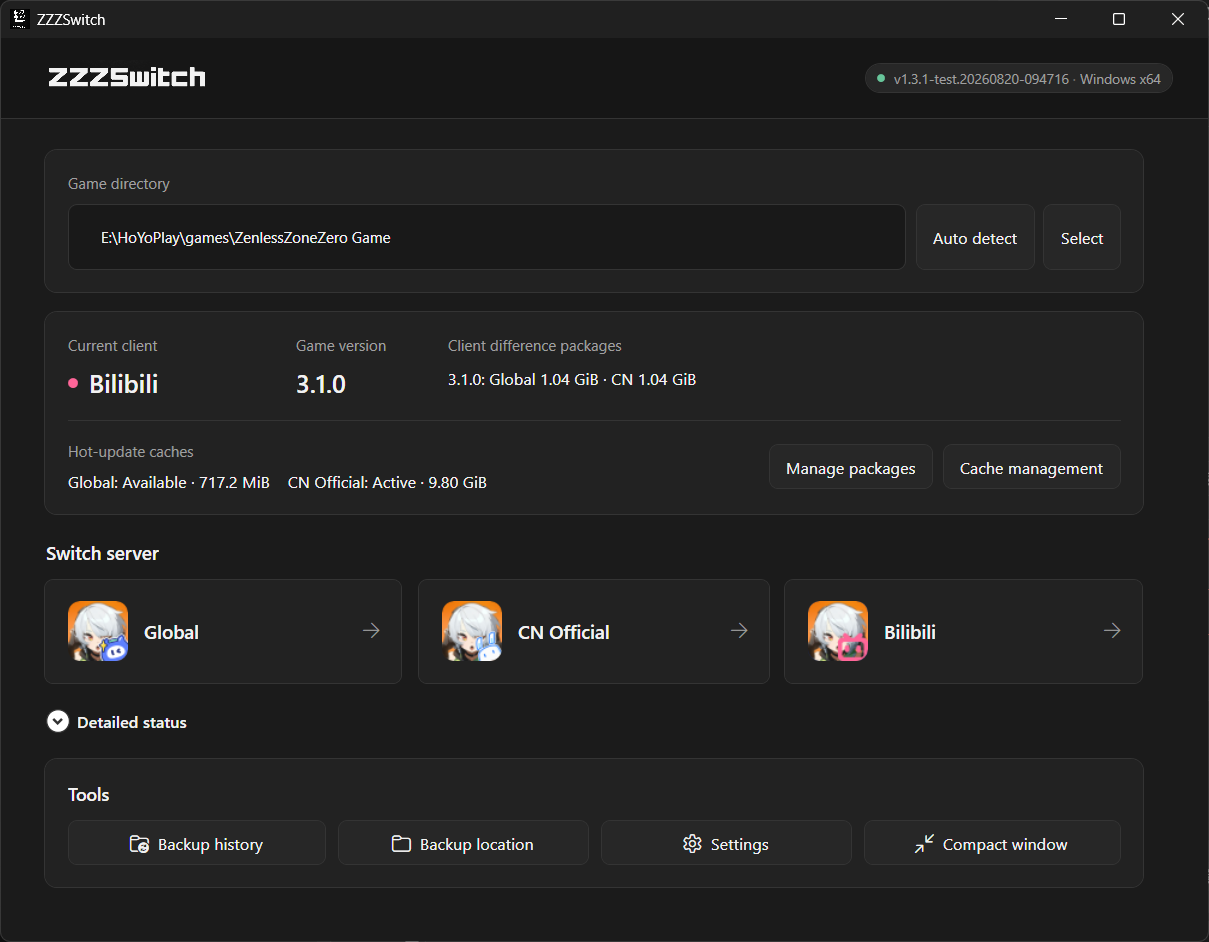
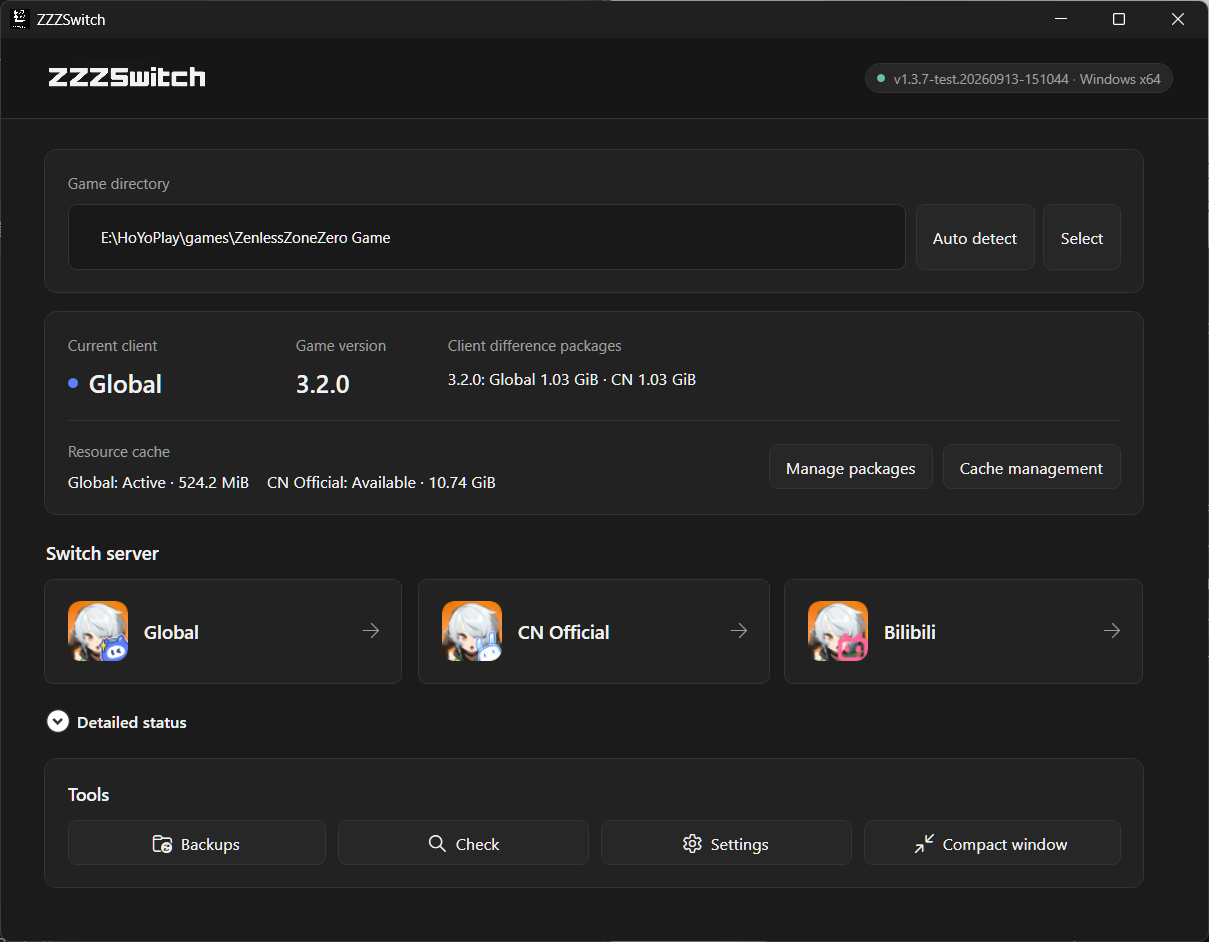
Add English landing page and refresh app screenshot

diff --git a/docs/index.html b/docs/index.html
@@ -43,7 +43,8 @@
     <nav class="nav wrap" aria-label="主导航">
       <a class="brand" href="#top" aria-label="ZZZSwitch 首页"><span class="brand-mark" aria-hidden="true">Z</span>ZZZSwitch</a>
       <div class="nav-links">
-        <a class="nav-home" href="#top">首页</a><a href="#features">软件功能</a><a href="#usage">使用说明</a><a href="https://github.com/lz007001cn/ZZZSwitch">GitHub ↗</a>
+        <a class="nav-home" href="#top" data-zh="首页" data-en="Home">首页</a><a href="#features" data-zh="软件功能" data-en="Features">软件功能</a><a href="#usage" data-zh="使用说明" data-en="Guide">使用说明</a><a href="https://github.com/lz007001cn/ZZZSwitch">GitHub ↗</a>
+        <button class="lang-toggle" type="button" aria-label="Switch to English">EN</button>
         <a class="nav-download" href="https://github.com/lz007001cn/ZZZSwitch/releases/latest">下载最新版 <span aria-hidden="true">↓</span></a>
       </div>
     </nav>
@@ -55,12 +56,12 @@
         <div class="hero-content">
           <p class="eyebrow">Windows PC · 社区工具</p>
           <h1><span>ZZZSwitch</span><span class="hero-subtitle">绝区零三服切换器</span></h1>
-          <p class="hero-copy">ZZZSwitch 是 Windows 版《绝区零》的服务器切换工具，支持国服官服、国际服和 B服。程序自动获取当前版本所需的差异文件，用户无需手动查找或制作差异包。</p>
+          <p class="hero-copy" data-zh="ZZZSwitch 是 Windows 版《绝区零》的服务器切换工具，支持国服官服、国际服和 B服。程序自动获取当前版本所需的差异文件，用户无需手动查找或制作差异包。" data-en="ZZZSwitch is a Windows tool for switching Zenless Zone Zero between Global, CN Official and Bilibili. It fetches the files for your installed version automatically, so you do not need to find or build a difference package by hand.">ZZZSwitch 是 Windows 版《绝区零》的服务器切换工具，支持国服官服、国际服和 B服。程序自动获取当前版本所需的差异文件，用户无需手动查找或制作差异包。</p>
           <div class="actions">
             <a class="button button-primary" href="https://github.com/lz007001cn/ZZZSwitch/releases/latest">下载最新版 <span class="arrow" aria-hidden="true">↓</span></a>
             <a class="button button-secondary" href="https://github.com/lz007001cn/ZZZSwitch">查看源代码 <span class="arrow" aria-hidden="true">↗</span></a>
           </div>
-          <div class="hero-facts" aria-label="软件信息"><span>Windows x64</span><span>自动获取差异文件</span><span>内置 B服组件</span></div>
+          <div class="hero-facts" aria-label="软件信息"><span data-zh="Windows x64" data-en="Windows x64">Windows x64</span><span data-zh="自动获取差异文件" data-en="Automatic file differences">自动获取差异文件</span><span data-zh="内置 B服组件" data-en="Bilibili component included">内置 B服组件</span></div>
         </div>
         <figure class="visual">
           <div class="visual-top" aria-hidden="true"><span>软件界面</span><span class="visual-status">完整模式</span></div>
@@ -82,40 +83,62 @@
     </section>
     <section class="section wrap" id="features">
       <p class="section-tag">01</p>
-      <div class="section-heading"><h2>软件功能</h2><p>从下载到切换自动完成关键准备，不需要手动寻找差异包。</p></div>
+      <div class="section-heading"><h2 data-zh="软件功能" data-en="Features">软件功能</h2><p data-zh="从下载到切换自动完成关键准备，不需要手动寻找差异包。" data-en="The app prepares the files, cache and backup needed for a switch. No manual difference package hunting is required.">从下载到切换自动完成关键准备，不需要手动寻找差异包。</p></div>
       <div class="feature-grid">
-        <article class="feature"><span class="feature-symbol" aria-hidden="true">⌁</span><h3>无需手动获取差异包</h3><p>程序按当前游戏版本读取官方 Sophon Manifest，自动计算并获取目标服务器需要的文件。</p></article>
-        <article class="feature"><span class="feature-symbol" aria-hidden="true">⇄</span><h3>只下载缺少的文件</h3><p>优先复用本地已校验文件，避免重复下载；反向切换所需差异和各服热更新缓存也会自动保存。</p></article>
-        <article class="feature"><span class="feature-symbol" aria-hidden="true">↶</span><h3>备份与恢复</h3><p>替换前建立备份，结合文件校验与事务记录，在操作意外中断后提供恢复依据。</p></article>
+        <article class="feature"><span class="feature-symbol" aria-hidden="true">⌁</span><h3 data-zh="无需手动获取差异包" data-en="No manual package work">无需手动获取差异包</h3><p data-zh="程序按当前游戏版本读取官方 Sophon Manifest，自动计算并获取目标服务器需要的文件。" data-en="ZZZSwitch reads the official Sophon Manifest for your game version, then calculates and fetches the target files automatically.">程序按当前游戏版本读取官方 Sophon Manifest，自动计算并获取目标服务器需要的文件。</p></article>
+        <article class="feature"><span class="feature-symbol" aria-hidden="true">⇄</span><h3 data-zh="只下载缺少的文件" data-en="Download only what is missing">只下载缺少的文件</h3><p data-zh="优先复用本地已校验文件，避免重复下载；反向切换所需差异和各服热更新缓存也会自动保存。" data-en="Verified local files are reused first. Reverse-switch files and each server's resource cache are saved automatically.">优先复用本地已校验文件，避免重复下载；反向切换所需差异和各服热更新缓存也会自动保存。</p></article>
+        <article class="feature"><span class="feature-symbol" aria-hidden="true">↶</span><h3 data-zh="备份与恢复" data-en="Backup and recovery">备份与恢复</h3><p data-zh="替换前建立备份，结合文件校验与事务记录，在操作意外中断后提供恢复依据。" data-en="Backups, file checks and transaction records provide a recovery path if an operation is interrupted.">替换前建立备份，结合文件校验与事务记录，在操作意外中断后提供恢复依据。</p></article>
       </div>
     </section>
     <section class="section usage-section" id="usage">
       <div class="wrap">
         <p class="section-tag">02</p>
-        <div class="section-heading"><h2>使用步骤</h2><p>首次切换联网获取差异文件。<br>之后可继续复用已校验的文件与缓存。</p></div>
+        <div class="section-heading"><h2 data-zh="使用步骤" data-en="How to use">使用步骤</h2><p data-zh="首次切换联网获取差异文件。<br>之后可继续复用已校验的文件与缓存。" data-en="Connect to the internet for the first switch.<br>Verified files and caches can be reused afterwards.">首次切换联网获取差异文件。<br>之后可继续复用已校验的文件与缓存。</p></div>
         <div class="workflow">
-          <article class="step"><b>01</b><h3>下载并解压</h3><p>从 GitHub Releases 下载最新版，解压后运行 ZZZSwitch.exe。</p></article>
-          <article class="step"><b>02</b><h3>选择游戏目录</h3><p>自动检测，或手动选择包含 ZenlessZoneZero.exe 的安装目录。</p></article>
-          <article class="step"><b>03</b><h3>检查并切换</h3><p>选择目标服务器，在完整模式中查看检查结果与切换摘要，再开始操作。</p></article>
-          <article class="step"><b>04</b><h3>启动目标服</h3><p>等待切换完成，再启动游戏。首次进入目标服可能需要下载游戏内资源。</p></article>
+          <article class="step"><b>01</b><h3 data-zh="下载并解压" data-en="Download and extract">下载并解压</h3><p data-zh="从 GitHub Releases 下载最新版，解压后运行 ZZZSwitch.exe。" data-en="Download the latest release from GitHub and run ZZZSwitch.exe after extracting it.">从 GitHub Releases 下载最新版，解压后运行 ZZZSwitch.exe。</p></article>
+          <article class="step"><b>02</b><h3 data-zh="选择游戏目录" data-en="Choose game folder">选择游戏目录</h3><p data-zh="自动检测，或手动选择包含 ZenlessZoneZero.exe 的安装目录。" data-en="Use auto-detection, or select the folder containing ZenlessZoneZero.exe.">自动检测，或手动选择包含 ZenlessZoneZero.exe 的安装目录。</p></article>
+          <article class="step"><b>03</b><h3 data-zh="检查并切换" data-en="Check and switch">检查并切换</h3><p data-zh="选择目标服务器，在完整模式中查看检查结果与切换摘要，再开始操作。" data-en="Select a target server, review the checks and summary, then start the switch.">选择目标服务器，在完整模式中查看检查结果与切换摘要，再开始操作。</p></article>
+          <article class="step"><b>04</b><h3 data-zh="启动目标服" data-en="Launch the target server">启动目标服</h3><p data-zh="等待切换完成，再启动游戏。首次进入目标服可能需要下载游戏内资源。" data-en="Wait for the switch to finish before launching the game. The first visit may download in-game resources.">等待切换完成，再启动游戏。首次进入目标服可能需要下载游戏内资源。</p></article>
         </div>
         <aside class="safety" aria-label="切换须知"><span class="safety-icon" aria-hidden="true">!</span><div><strong>切换前，请完全关闭游戏和 HoYoPlay。</strong><p>切换完成后再启动。不要在非对应服务器状态下使用启动器“修复”；首次进入其他服务器仍可能需要下载游戏内热更新资源。</p></div></aside>
       </div>
     </section>
     <section class="section wrap" id="faq" aria-labelledby="faq-title">
       <div class="faq-layout">
-        <div class="faq-intro"><p class="section-tag">03</p><h2 id="faq-title">常见问题</h2><p>下载、切换及恢复说明。</p><a class="text-link" href="https://github.com/lz007001cn/ZZZSwitch/blob/main/README.zh-CN.md">阅读完整使用说明 <span aria-hidden="true">↗</span></a></div>
+        <div class="faq-intro"><p class="section-tag">03</p><h2 id="faq-title" data-zh="常见问题" data-en="FAQ">常见问题</h2><p data-zh="下载、切换及恢复说明。" data-en="Download, switching and recovery notes.">下载、切换及恢复说明。</p><a class="text-link" href="https://github.com/lz007001cn/ZZZSwitch/blob/main/README.zh-CN.md" data-zh="阅读完整使用说明 ↗" data-en="Read the full guide ↗">阅读完整使用说明 <span aria-hidden="true">↗</span></a></div>
         <div class="faq-list">
-          <details><summary>需要手动寻找或制作差异包吗？</summary><p>不需要。ZZZSwitch 会按当前游戏版本自动读取官方 Sophon Manifest，计算目标服务器所需文件并准备差异；用户只需选择目标服务器。</p></details>
-          <details><summary>B服需要单独下载组件包吗？</summary><p>当前支持游戏版本的 B服渠道组件已包含在正式程序中，ZZZSwitch 会自动校验并准备这些组件。</p></details>
-          <details><summary>切服后为什么还会下载游戏内资源？</summary><p>启动文件差异与游戏内热更新资源是两套内容。ZZZSwitch 分别保存各资源服的 Blocks 缓存，但首次进入目标服仍可能需要完成资源下载。</p></details>
-          <details><summary>操作中断后，可以恢复吗？</summary><p>实际替换前会创建事务备份。操作意外中断后，重新启动 ZZZSwitch，程序会依据事务记录尝试恢复；也可在备份历史中查看可用备份及恢复条件。</p></details>
-          <details><summary>三个服务器的账号和进度会互通吗？</summary><p>不会。ZZZSwitch 切换的是本地客户端文件与资源，不提供跨服务器账号、角色或游戏进度转移。请使用目标服务器对应的账号登录。</p></details>
+          <details><summary data-zh="需要手动寻找或制作差异包吗？" data-en="Do I need to find or build a difference package?">需要手动寻找或制作差异包吗？</summary><p data-zh="不需要。ZZZSwitch 会按当前游戏版本自动读取官方 Sophon Manifest，计算目标服务器所需文件并准备差异；用户只需选择目标服务器。" data-en="No. ZZZSwitch reads the official Sophon Manifest for your version and prepares the required files automatically. You only choose the target server.">不需要。ZZZSwitch 会按当前游戏版本自动读取官方 Sophon Manifest，计算目标服务器所需文件并准备差异；用户只需选择目标服务器。</p></details>
+          <details><summary data-zh="B服需要单独下载组件包吗？" data-en="Does Bilibili need a separate package?">B服需要单独下载组件包吗？</summary><p data-zh="当前支持游戏版本的 B服渠道组件已包含在正式程序中，ZZZSwitch 会自动校验并准备这些组件。" data-en="No. The Bilibili channel component for supported versions is included in the app and verified automatically.">当前支持游戏版本的 B服渠道组件已包含在正式程序中，ZZZSwitch 会自动校验并准备这些组件。</p></details>
+          <details><summary data-zh="切服后为什么还会下载游戏内资源？" data-en="Why does the game still download resources after switching?">切服后为什么还会下载游戏内资源？</summary><p data-zh="启动文件差异与游戏内热更新资源是两套内容。ZZZSwitch 分别保存各资源服的 Blocks 缓存，但首次进入目标服仍可能需要完成资源下载。" data-en="Launcher file differences and in-game resources are separate. The first visit to a target server may still require an in-game download.">启动文件差异与游戏内热更新资源是两套内容。ZZZSwitch 分别保存各资源服的 Blocks 缓存，但首次进入目标服仍可能需要完成资源下载。</p></details>
+          <details><summary data-zh="操作中断后，可以恢复吗？" data-en="Can I recover after an interruption?">操作中断后，可以恢复吗？</summary><p data-zh="实际替换前会创建事务备份。操作意外中断后，重新启动 ZZZSwitch，程序会依据事务记录尝试恢复；也可在备份历史中查看可用备份及恢复条件。" data-en="A transaction backup is created before replacement. Restart ZZZSwitch after an interruption to attempt recovery from the transaction record.">实际替换前会创建事务备份。操作意外中断后，重新启动 ZZZSwitch，程序会依据事务记录尝试恢复；也可在备份历史中查看可用备份及恢复条件。</p></details>
+          <details><summary data-zh="三个服务器的账号和进度会互通吗？" data-en="Are accounts and progress shared?">三个服务器的账号和进度会互通吗？</summary><p data-zh="不会。ZZZSwitch 切换的是本地客户端文件与资源，不提供跨服务器账号、角色或游戏进度转移。请使用目标服务器对应的账号登录。" data-en="No. ZZZSwitch changes local client files and resources; it does not transfer accounts, characters or progress between servers.">不会。ZZZSwitch 切换的是本地客户端文件与资源，不提供跨服务器账号、角色或游戏进度转移。请使用目标服务器对应的账号登录。</p></details>
         </div>
       </div>
     </section>
-    <section class="final-cta wrap" id="download" aria-labelledby="download-title"><div class="cta-inner"><div><h2 id="download-title">软件下载</h2><p>当前版本 1.3.7 · Windows x64 · 下载文件与更新记录见 GitHub Releases。</p></div><div class="actions"><a class="button button-primary" href="https://github.com/lz007001cn/ZZZSwitch/releases/latest">下载最新版 <span class="arrow" aria-hidden="true">↓</span></a></div></div></section>
+    <section class="final-cta wrap" id="download" aria-labelledby="download-title"><div class="cta-inner"><div><h2 id="download-title" data-zh="软件下载" data-en="Download">软件下载</h2><p data-zh="当前版本 1.3.7 · Windows x64 · 下载文件与更新记录见 GitHub Releases。" data-en="Version 1.3.7 · Windows x64 · Downloads and release notes are available on GitHub.">当前版本 1.3.7 · Windows x64 · 下载文件与更新记录见 GitHub Releases。</p></div><div class="actions"><a class="button button-primary" href="https://github.com/lz007001cn/ZZZSwitch/releases/latest" data-zh="下载最新版 ↓" data-en="Download latest ↓">下载最新版 <span class="arrow" aria-hidden="true">↓</span></a></div></div></section>
   </main>
   <footer><div class="footer-inner wrap"><p><span class="footer-brand">ZZZSwitch</span>社区项目 · 与 HoYoverse、米哈游或哔哩哔哩无隶属关系</p><a href="https://github.com/lz007001cn/ZZZSwitch">在 GitHub 查看项目 <span aria-hidden="true">↗</span></a></div></footer>
+  <script>
+    (() => {
+      const toggle = document.querySelector('.lang-toggle');
+      const translatable = document.querySelectorAll('[data-zh][data-en]');
+      const setLanguage = (lang) => {
+        document.body.dataset.lang = lang;
+        document.documentElement.lang = lang === 'en' ? 'en' : 'zh-CN';
+        translatable.forEach((node) => {
+          if (node.tagName === 'A' && node.querySelector('span')) {
+            node.childNodes[0].nodeValue = node.dataset[lang] + ' ';
+          } else {
+            node.innerHTML = node.dataset[lang];
+          }
+        });
+        toggle.textContent = lang === 'en' ? '中' : 'EN';
+        toggle.setAttribute('aria-label', lang === 'en' ? '切换为中文' : 'Switch to English');
+        localStorage.setItem('zzzswitch-lang', lang);
+      };
+      toggle.addEventListener('click', () => setLanguage(document.body.dataset.lang === 'en' ? 'zh' : 'en'));
+      setLanguage(localStorage.getItem('zzzswitch-lang') === 'en' ? 'en' : 'zh');
+    })();
+  </script>
 </body>
 </html>

diff --git a/docs/site.css b/docs/site.css
@@ -56,6 +56,9 @@ a:focus-visible, summary:focus-visible {
 .nav-links a:hover { color: #111; background: white; }
 .nav-links .nav-home { background: white; color: #111; }
 .nav-links .nav-download { background: var(--acid); color: #111; margin-left: 12px; }
+.lang-toggle { border: 1px solid #777; border-radius: 20px; padding: 5px 11px; background: transparent; color: white; font: 700 12px Arial, sans-serif; cursor: pointer; }
+.lang-toggle:hover { background: white; color: #111; }
+body[data-lang="en"] { font-family: Arial, "Segoe UI", sans-serif; }
 
 /* Oversized lettering, diagonal panels and a software window in place of character art. */
 .hero { position: relative; isolation: isolate; overflow: hidden; background: #eeeeec; border-bottom: 8px solid #161616; }
@@ -284,6 +287,7 @@ footer { background: #080808; color: #a2a29b; padding-block: 29px; }
 @media (max-width: 370px) {
   .wrap { width: calc(100% - 32px); }
   .nav-links .nav-download { margin-left: 0; padding-inline: 10px; font-size: 12px; }
+  .lang-toggle { padding-inline: 8px; }
   h1 { font-size: 46px; }
   .hero-subtitle { font-size: 23px; }
   .button { padding-inline: 13px; font-size: 13px; }
